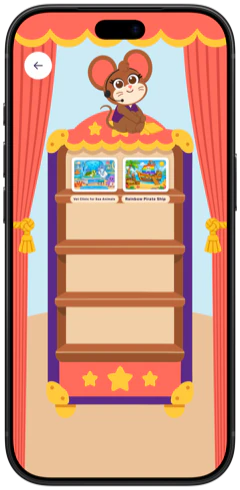
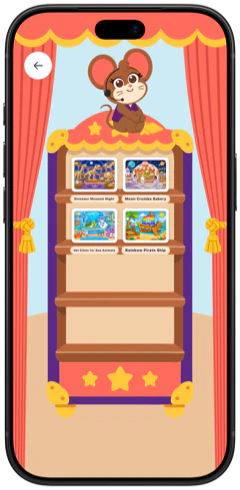
Saved games: four-game bookshelf on iPad and iPhone (Apple bezels, overlapped)
Fresh native-resolution demo-mode shots with Dinosaur Museum Night, Moon Crumbs Bakery, Vet Clinic for Sea
Animals and Rainbow Pirate Ship, each with its real cover.

Changed region(s): [[0.2917, 0.3061, 0.7292, 0.5204], [0.3792, 0.0918, 0.6417, 0.2449]]

diff --git a/index.html b/index.html
@@ -195,8 +195,8 @@
       </ul>
     </div>
     <figure class="device-shot">
-      <img class="is-ipad" src="assets/app/ipad-bookshelf-640.webp" srcset="assets/app/ipad-bookshelf-640.webp 640w, assets/app/ipad-bookshelf-1280.webp 1280w" sizes="(min-width: 1100px) 560px, (min-width: 900px) 48vw, 84vw" width="640" height="490" alt="Nutmeg’s bookshelf on iPad with two saved games, Vet Clinic for Sea Animals and Rainbow Pirate Ship, each with its cover picture" loading="lazy">
-      <img class="is-iphone" src="assets/app/iphone-bookshelf-240.webp" srcset="assets/app/iphone-bookshelf-240.webp 240w, assets/app/iphone-bookshelf-480.webp 480w, assets/app/iphone-bookshelf-720.webp 720w" sizes="(min-width: 1100px) 160px, (min-width: 900px) 14vw, 24vw" width="240" height="490" alt="The same bookshelf on iPhone, with Nutmeg sitting on top" loading="lazy">
+      <img class="is-ipad" src="assets/app/ipad-bookshelf-640.webp" srcset="assets/app/ipad-bookshelf-640.webp 640w, assets/app/ipad-bookshelf-1280.webp 1280w" sizes="(min-width: 1100px) 560px, (min-width: 900px) 48vw, 84vw" width="640" height="490" alt="Nutmeg’s bookshelf on iPad with four saved games, Dinosaur Museum Night, Moon Crumbs Bakery, Vet Clinic for Sea Animals and Rainbow Pirate Ship, each with its cover picture" loading="lazy">
+      <img class="is-iphone" src="assets/app/iphone-bookshelf-240.webp" srcset="assets/app/iphone-bookshelf-240.webp 240w, assets/app/iphone-bookshelf-480.webp 480w, assets/app/iphone-bookshelf-720.webp 720w" sizes="(min-width: 1100px) 160px, (min-width: 900px) 14vw, 24vw" width="240" height="490" alt="The same four games on the bookshelf on iPhone, with Nutmeg sitting on top" loading="lazy">
     </figure>
   </div>
 </section>
